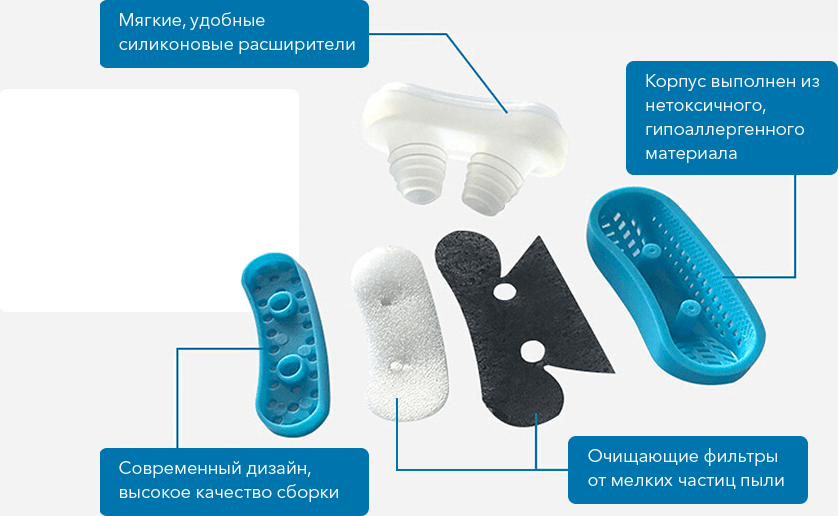
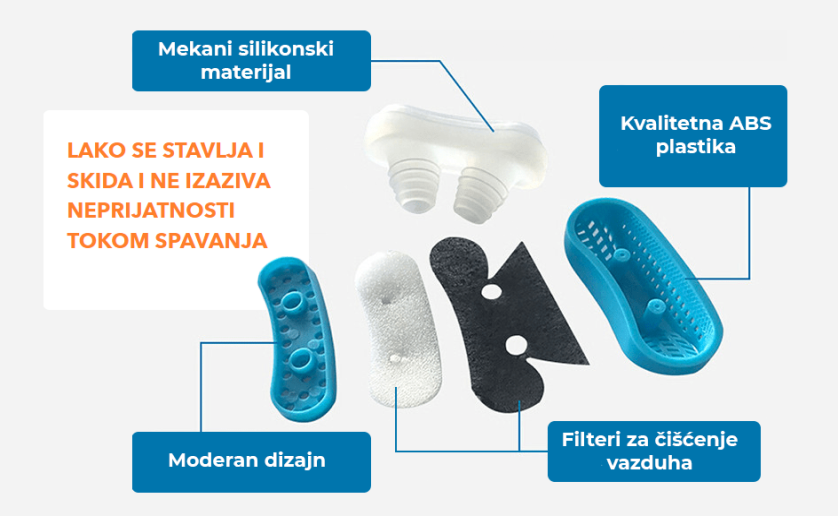
SilenceNight v2

Changed region(s): [[0.0621, 0.0, 1.0, 1.0], [0.4344, 0.2171, 0.4654, 0.2481]]

diff --git a/resources/views/lander/dailyshark/rs/silencenight.blade.php b/resources/views/lander/dailyshark/rs/silencenight.blade.php
@@ -15,7 +15,6 @@
             font-weight: 300;
             font-style: normal;
         }
-
         @font-face {
             font-family: "AvenirNextCyr";
             src: url("{{ asset("/") }}fonts/subset-AvenirNextCyr-Regular.woff2") format("woff2"),
@@ -24,7 +23,6 @@
             font-weight: 400;
             font-style: normal;
         }
-
         @font-face {
             font-family: "AvenirNextCyr";
             src: url("{{ asset("/") }}fonts/subset-AvenirNextCyr-Medium.woff2") format("woff2"),
@@ -33,7 +31,6 @@
             font-weight: 500;
             font-style: normal;
         }
-
         @font-face {
             font-family: "AvenirNextCyr";
             src: url("{{ asset("/") }}fonts/subset-AvenirNextCyr-Bold.woff2") format("woff2"),
@@ -229,13 +226,13 @@
 <section class="legend">
     <div class="wrap">
         <h2 class="title">ANTI SNORING UREĐAJ PROTIV HRKANJA I PREČISTAČ VAZDUHA 2 U 1</h2>
-        <h3>LAKO SE STAVLJA I SKIDA I NE IZAZIVA NEPRIJATNOSTI TOKOM SPAVANJA</h3>
+{{--        <h3>LAKO SE STAVLJA I SKIDA I NE IZAZIVA NEPRIJATNOSTI TOKOM SPAVANJA</h3>--}}
         <div class="legend-img1"></div>
         <ul class="legend-list hidden">
-            <li>Мягкие, удобные силиконовые расширители</li>
-            <li>Современный дизайн, высокое качество сборки</li>
-            <li>Корпус выполнен из нетоксичного, гипоаллергенного материала</li>
-            <li>Очищающие фильтры от мелких частиц пыли</li>
+            <li>Mekani silikonski materijal</li>
+            <li>Moderan dizajn</li>
+            <li>Kvalitetna ABS plastika</li>
+            <li>Filteri za čišćenje vazduha</li>
         </ul>
     </div>
 </section>
